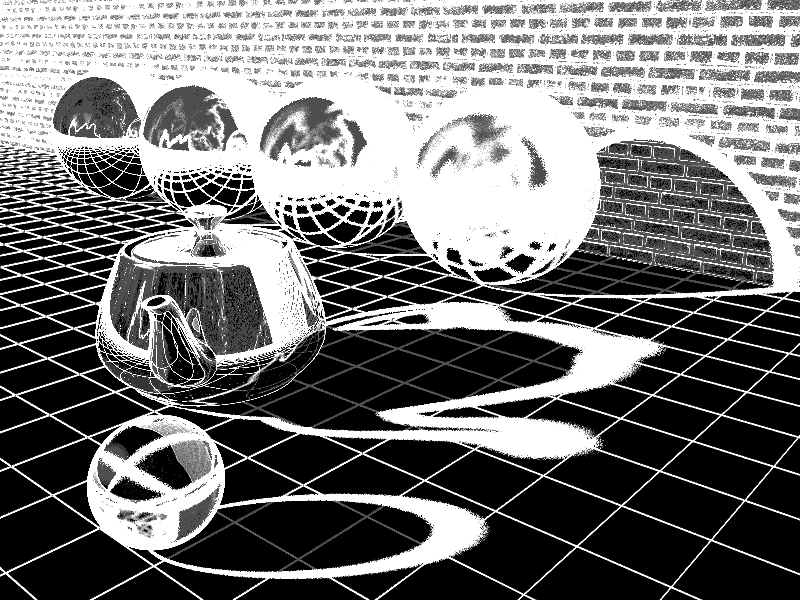
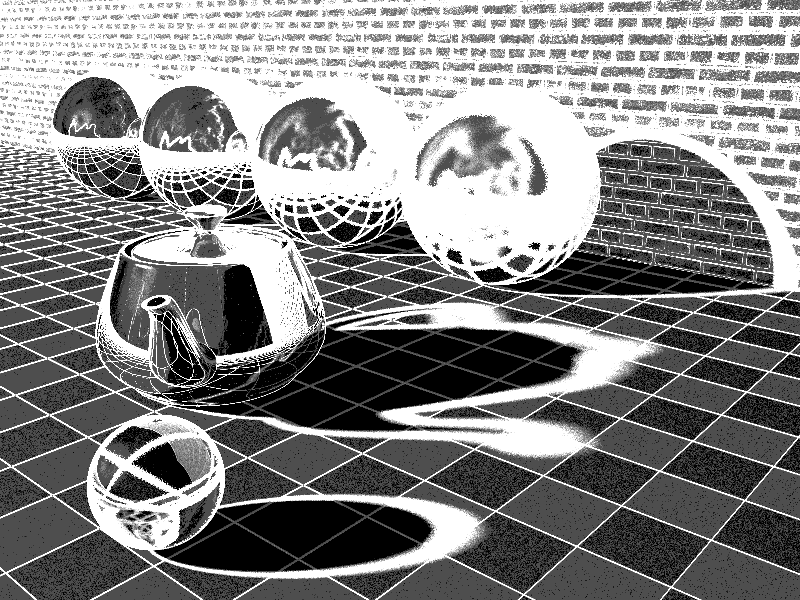
prj10 updated

diff --git a/courses/cs6620/prj10.html b/courses/cs6620/prj10.html
@@ -41,7 +41,7 @@ h3 {
 <body>
 <h1 style="margin-left:0px; margin-bottom:-75px; margin-top:25px"><p class="sansserif">CS6620 Project 10 - Soft Shadows and Glossy Surfaces</p></h1>
 <div>
-<center><h3 style="margin-bottom:0px; margin-top:0px"><p class="sansserif">Reference Scene, Min Samples = 16, Max Samples = 340, BC: 10, 3 Light rays used for shadows (Time to RayCast: 346 secs)</p></h3>
+<center><h3 style="margin-bottom:0px; margin-top:0px"><p class="sansserif">Reference Scene with 10 Light rays for shadows (Time to RayCast: 774 secs)</p></h3>
   <a href="prj10.png">
     <img src="prj10.png" width="800px" height="600px" vspace="5px">
       </a>
@@ -49,12 +49,12 @@ h3 {
     <img src="prj10_samplecount.png" width="800px" height="600px" vspace="5px">
       </a>
 </center>
-<center><h3 style="margin-bottom:0px; margin-top:0px"><p class="sansserif">Reference Scene, Min Samples = 16, Max Samples = 340, BC: 10, 3 Light rays used for shadows and BRDF (Time to RayCast: 440 secs)</p></h3>
-  <a href="prj10.png">
-    <img src="prj10_1.png" width="800px" height="600px" vspace="5px">
+<center><h3 style="margin-bottom:0px; margin-top:0px"><p class="sansserif">Reference Scene with 10 Light rays for shadows and gamma correction (Time to RayCast: 805 secs)</p></h3>
+  <a href="prj10_with_gamma.png">
+    <img src="prj10_with_gamma.png" width="800px" height="600px" vspace="5px">
       </a>
-  <a href="prj10_samplecount.png">
-    <img src="prj10_1_samplecount.png" width="800px" height="600px" vspace="5px">
+  <a href="prj10_samplecount_with_gamma.png">
+    <img src="prj10_samplecount_with_gamma.png" width="800px" height="600px" vspace="5px">
       </a>
 </center>
 </div>
